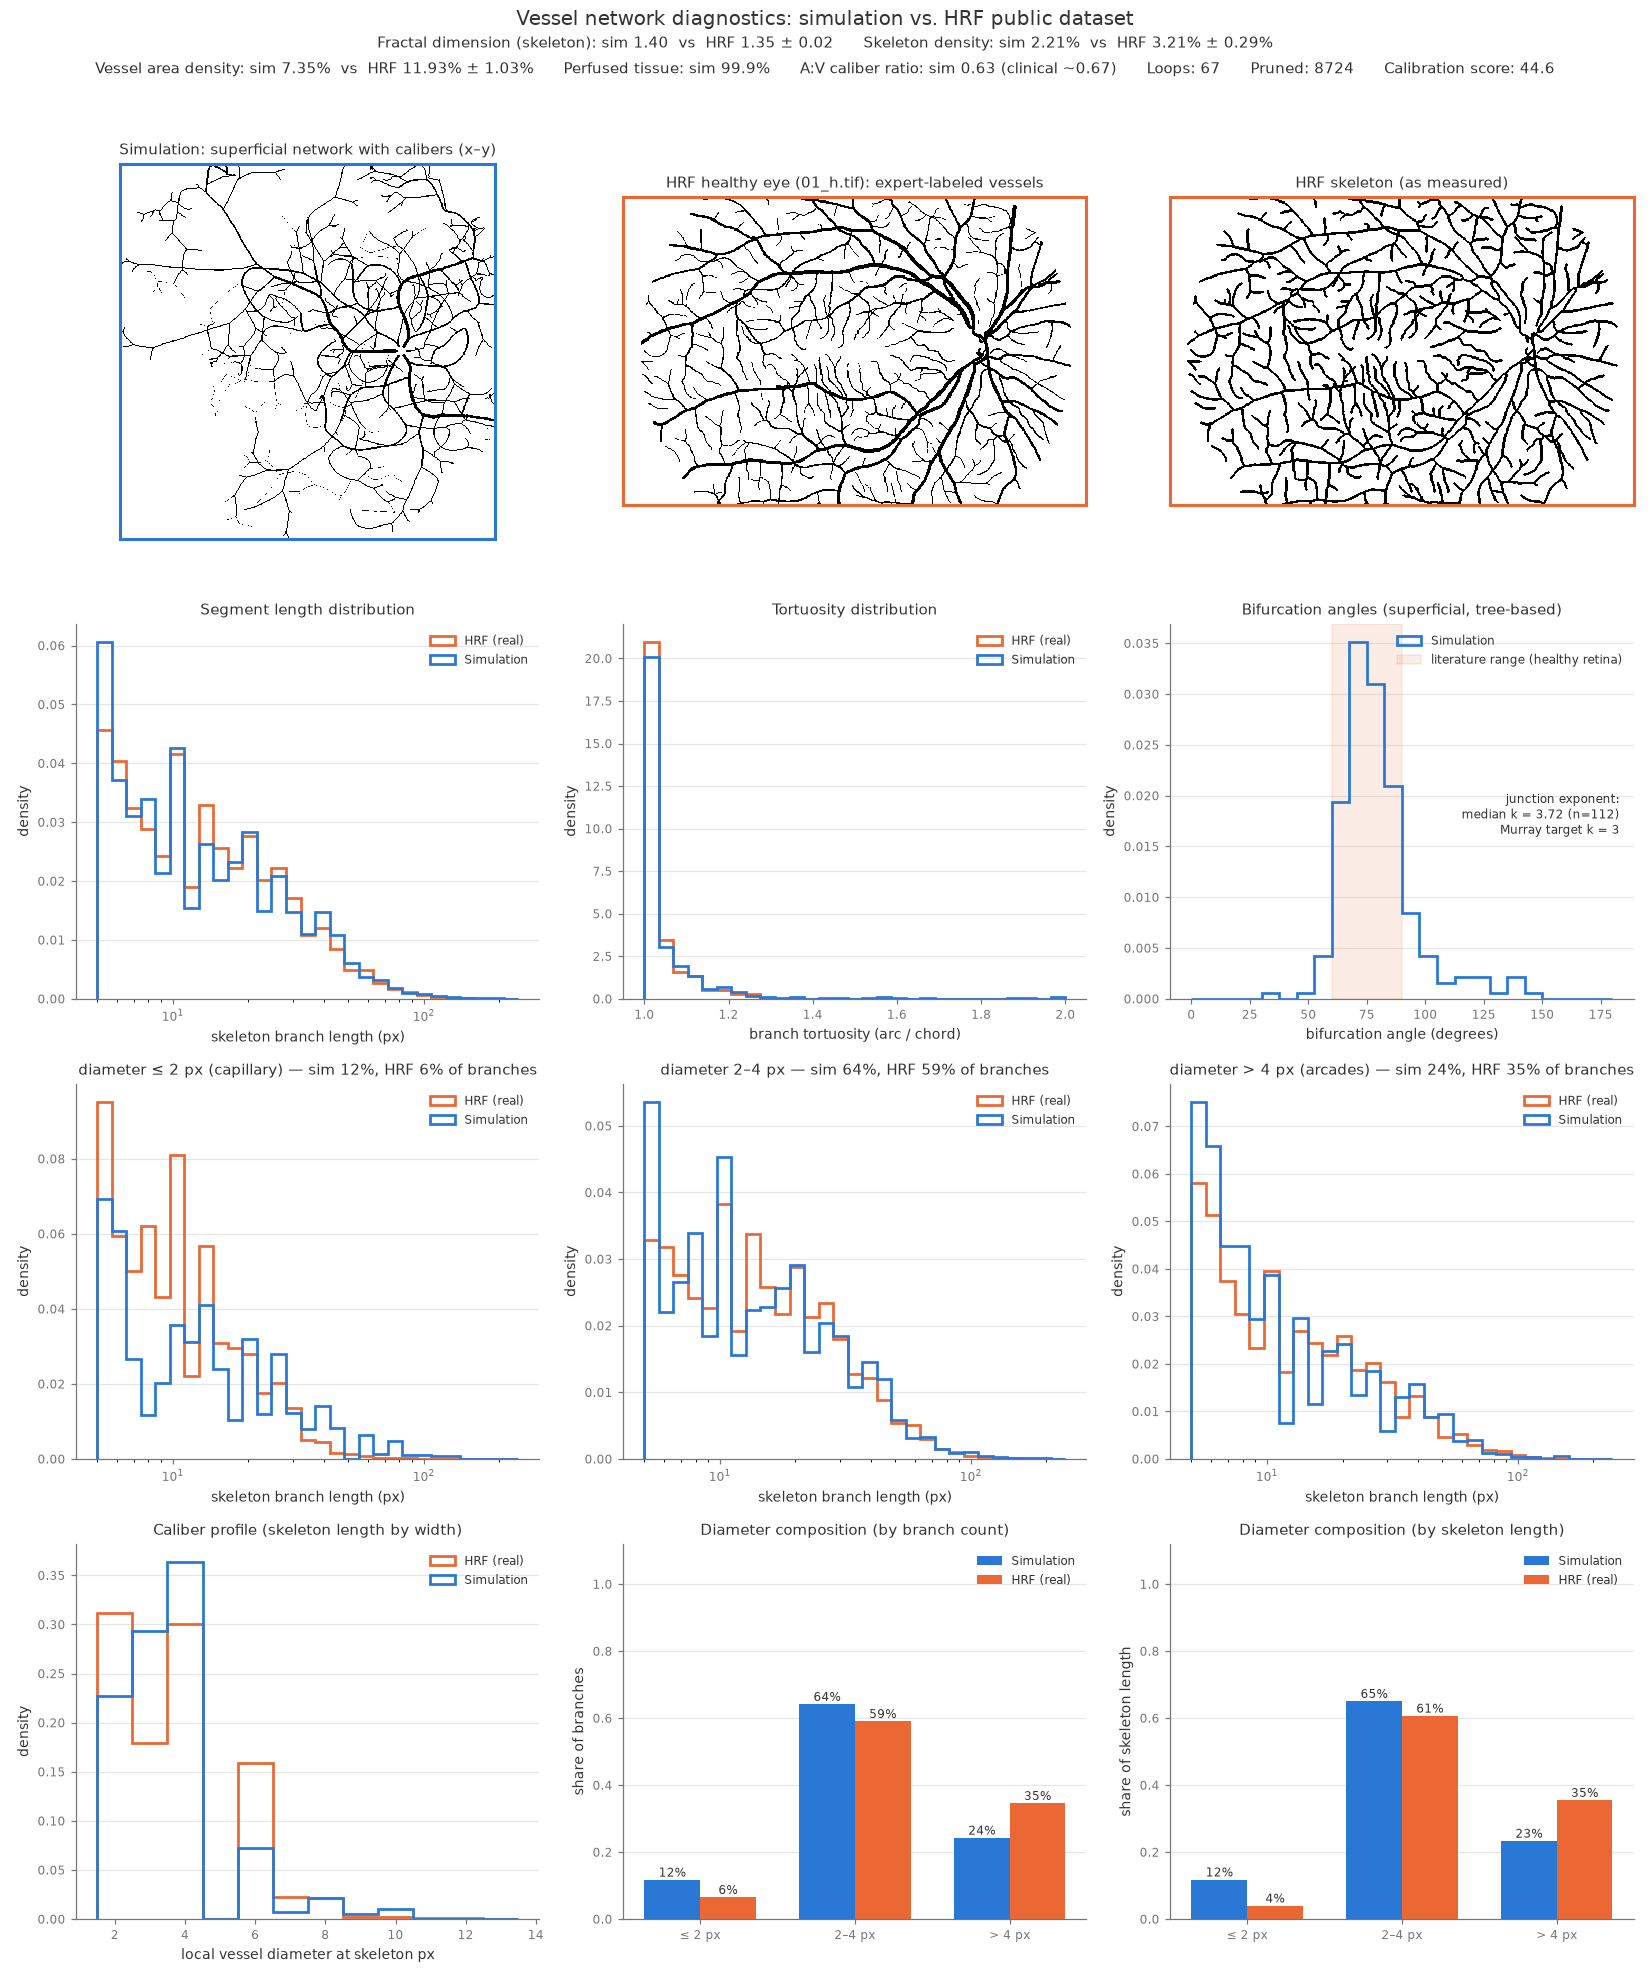
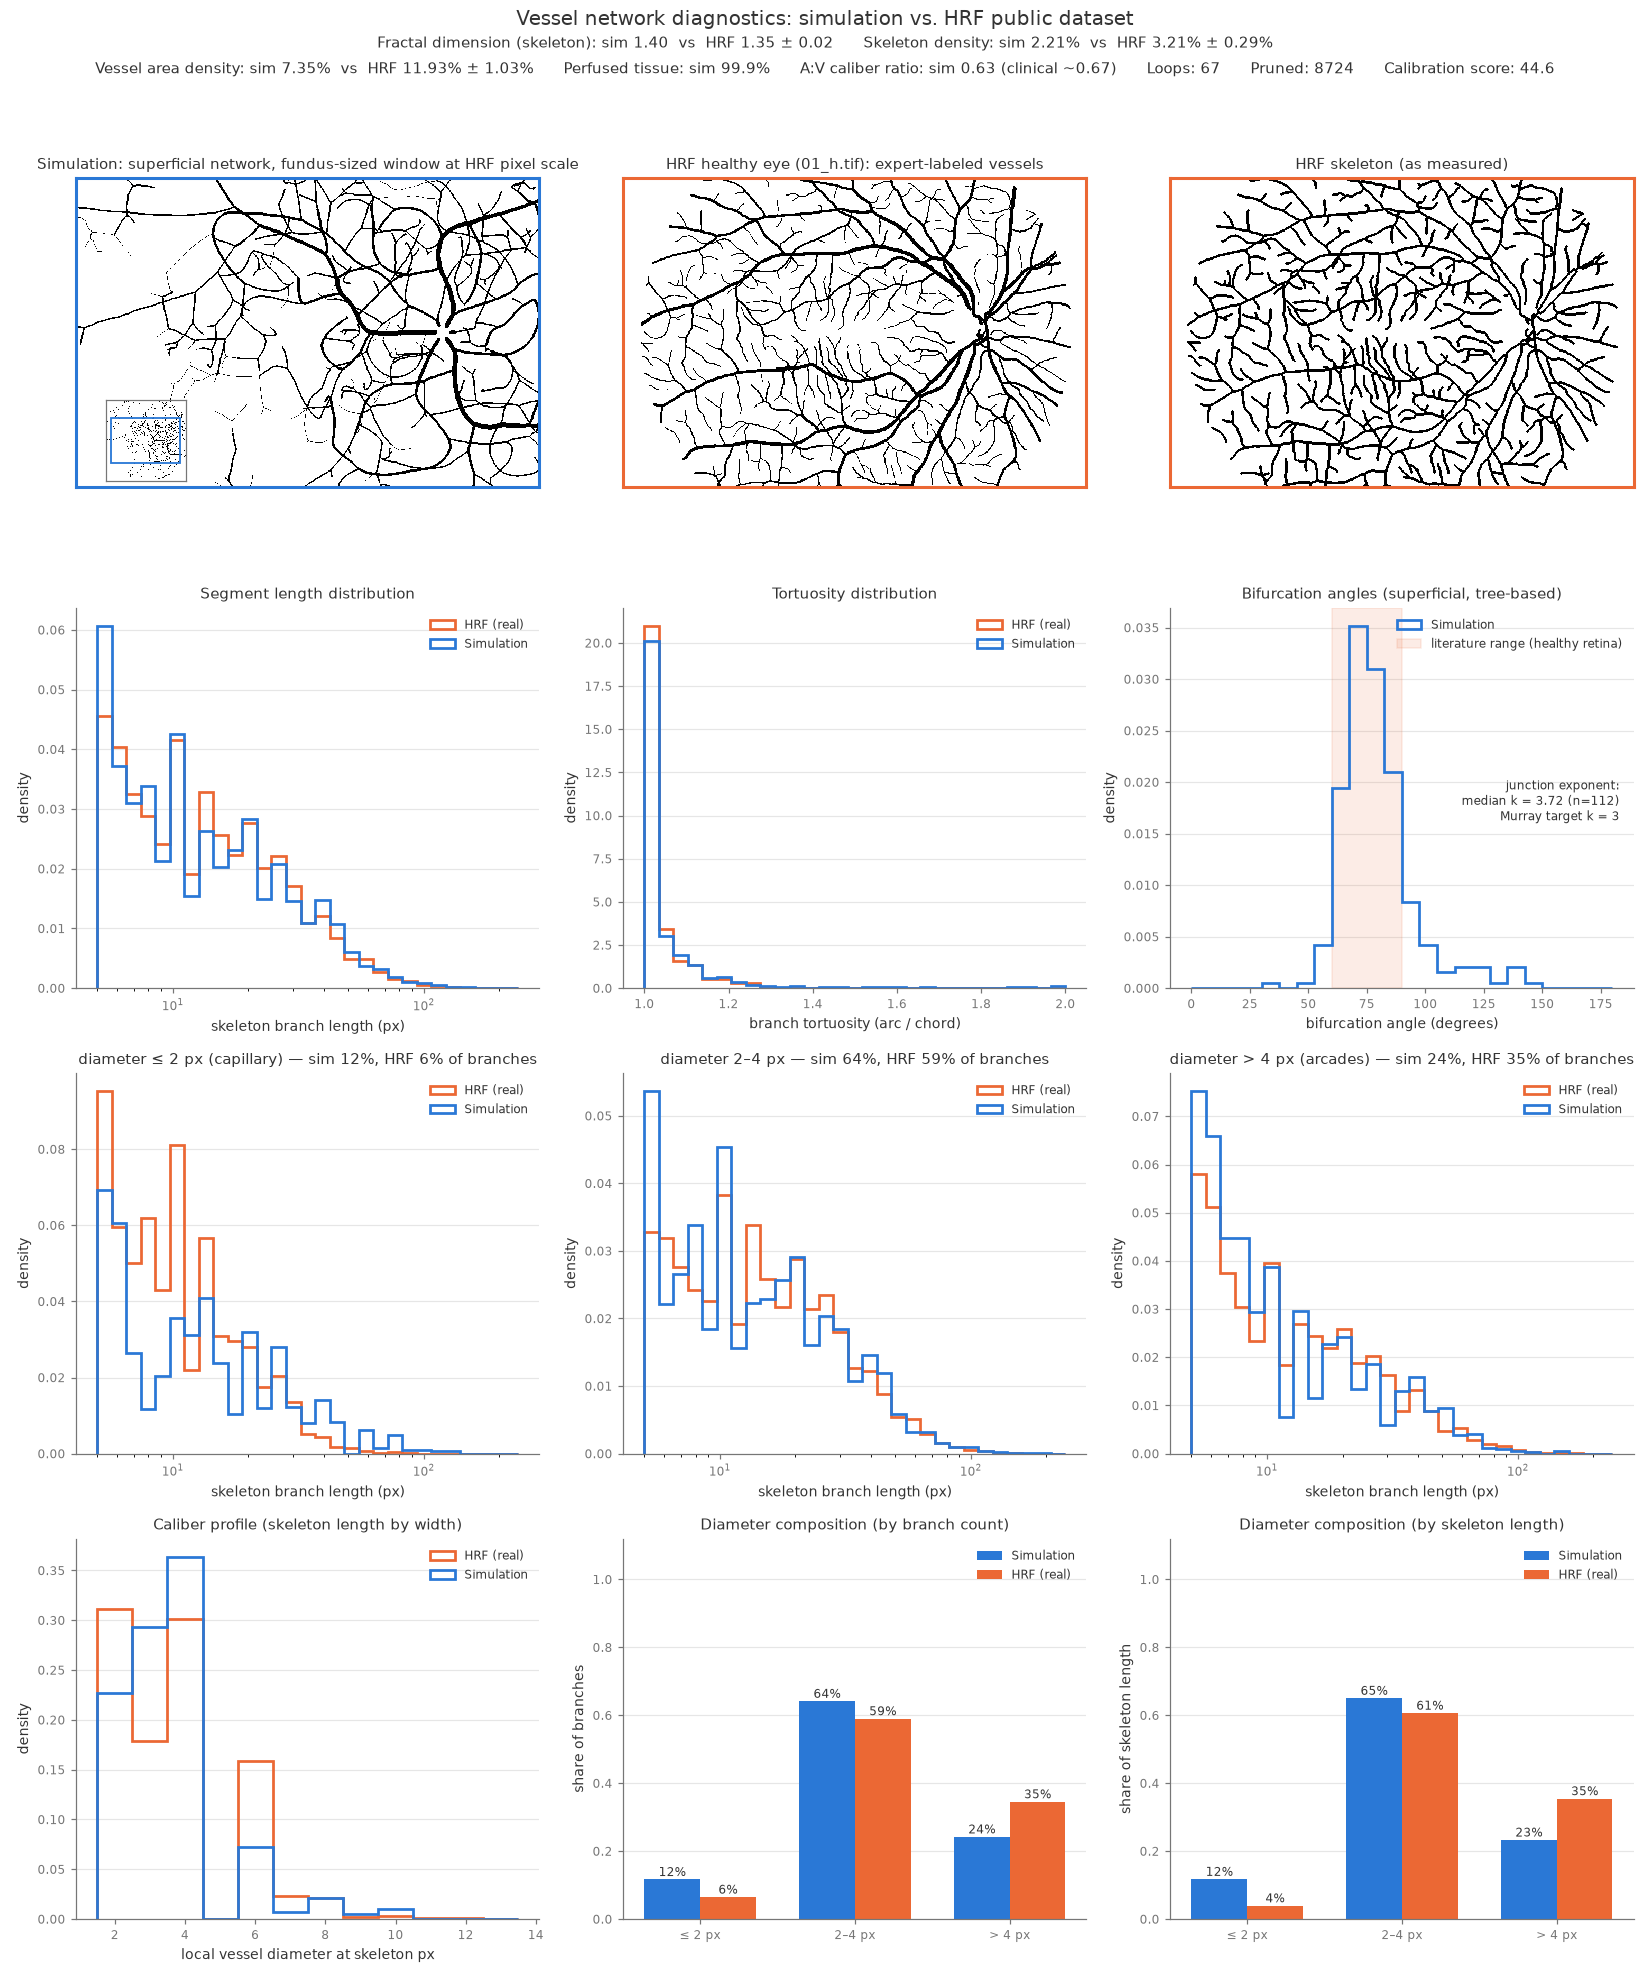
Compare the simulation to HRF at the same magnification
The comparison figure's simulation panel is now a fundus-sized central
window of the raster with the HRF working image's pixel extent
(876 x 584 px): calibers are matched in pixels, so this is the
like-for-like view -- same magnification and aspect, the ellipse's empty
corners trimmed, the disc where fundus photographs place it. The full
field stays as an inset with the window outlined.

Claude-Session: https://claude.ai/code/session_01U4Qk2Zw65JYjTrDCWeGrpE

diff --git a/src/vivarium_eye_vessels/vnv/compare.py b/src/vivarium_eye_vessels/vnv/compare.py
@@ -29,6 +29,7 @@ matplotlib.use("Agg")
 
 import matplotlib.pyplot as plt
 import numpy as np
+from matplotlib.patches import Rectangle
 from skimage.morphology import dilation, disk, skeletonize
 
 from vivarium_eye_vessels.vnv import metrics, reference_data, simulation
@@ -157,6 +158,23 @@ def render_plexus_figure(pop, edges, bounds, layer_z, output_path: Path) -> None
     fig.tight_layout(rect=(0, 0, 1, 0.95))
     fig.savefig(output_path, dpi=110, facecolor="white")
     plt.close(fig)
+
+
+def fundus_window(
+    raster: np.ndarray, reference_shape: tuple[int, int]
+) -> tuple[np.ndarray, tuple[int, int, int, int]]:
+    """Central crop of ``raster`` with the pixel extent of a reference image.
+
+    Returns the crop and its (row0, col0, rows, cols) placement. Because the
+    simulation is rasterized at the same pixels-per-caliber scale as the HRF
+    masks, a window the size of the HRF working image shows the two at the
+    same magnification and aspect.
+    """
+    rows = min(reference_shape[0], raster.shape[0])
+    cols = min(reference_shape[1], raster.shape[1])
+    row0 = (raster.shape[0] - rows) // 2
+    col0 = (raster.shape[1] - cols) // 2
+    return raster[row0 : row0 + rows, col0 : col0 + cols], (row0, col0, rows, cols)
 
 
 def plexus_metrics(pop, edges, layer_z) -> dict:
@@ -349,18 +367,31 @@ def run_comparison(model_spec: str, output_dir: Path, steps: int) -> dict:
 
     ax = axes[0, 0]
     sim_display = sim_raster if has_calibers else displayable(sim_raster)
-    sim_panel_title = (
-        "Simulation: superficial network with calibers (x–y)"
-        if has_calibers
-        else "Simulation: rasterized superficial network (x–y)"
+    # Calibers are matched to HRF in pixels, so a window of the simulation
+    # raster with the HRF working image's pixel extent is the like-for-like
+    # view: same magnification and aspect, the ellipse's empty corners
+    # trimmed, and the disc landing where fundus photographs place it
+    window, (row0, col0, rows, cols) = fundus_window(sim_display, example_binary.shape)
+    ax.imshow(~window, cmap="gray", interpolation="nearest")
+    ax.set_title(
+        "Simulation: superficial network, fundus-sized window at HRF pixel scale",
+        color=INK,
+        fontsize=10,
     )
-    ax.imshow(~sim_display, cmap="gray", interpolation="nearest")
-    ax.set_title(sim_panel_title, color=INK, fontsize=10)
     for spine in ax.spines.values():
         spine.set_color(SIM_COLOR)
         spine.set_linewidth(2)
     ax.set_xticks([])
     ax.set_yticks([])
+    inset = ax.inset_axes([0.02, 0.02, 0.26, 0.26])
+    inset.imshow(~sim_display, cmap="gray", interpolation="nearest")
+    inset.add_patch(
+        Rectangle((col0, row0), cols, rows, fill=False, edgecolor=SIM_COLOR, linewidth=1.2)
+    )
+    inset.set_xticks([])
+    inset.set_yticks([])
+    for spine in inset.spines.values():
+        spine.set_color(MUTED)
 
     ax = axes[0, 1]
     ax.imshow(~example_binary, cmap="gray", interpolation="nearest")

diff --git a/docs/realism_roadmap.md b/docs/realism_roadmap.md
@@ -727,6 +727,9 @@ harness under `vivarium_eye_vessels.vnv`:
   metrics on expert-labeled vessel masks from the public HRF dataset
   (downloaded on first use), and writes a side-by-side diagnostic figure
   plus a `metrics.json` for quantitative tracking across model versions.
+  The simulation panel shows a fundus-sized central window of the raster at
+  the HRF working image's pixel extent (calibers are matched in pixels, so
+  this is the like-for-like magnification), with the full field as an inset.
   `metrics.json` also records wall-clock runtime (setup, simulation,
   steps/second) so speed regressions surface alongside the network metrics;
   compare runtimes only within the same machine, and expect them to scale
